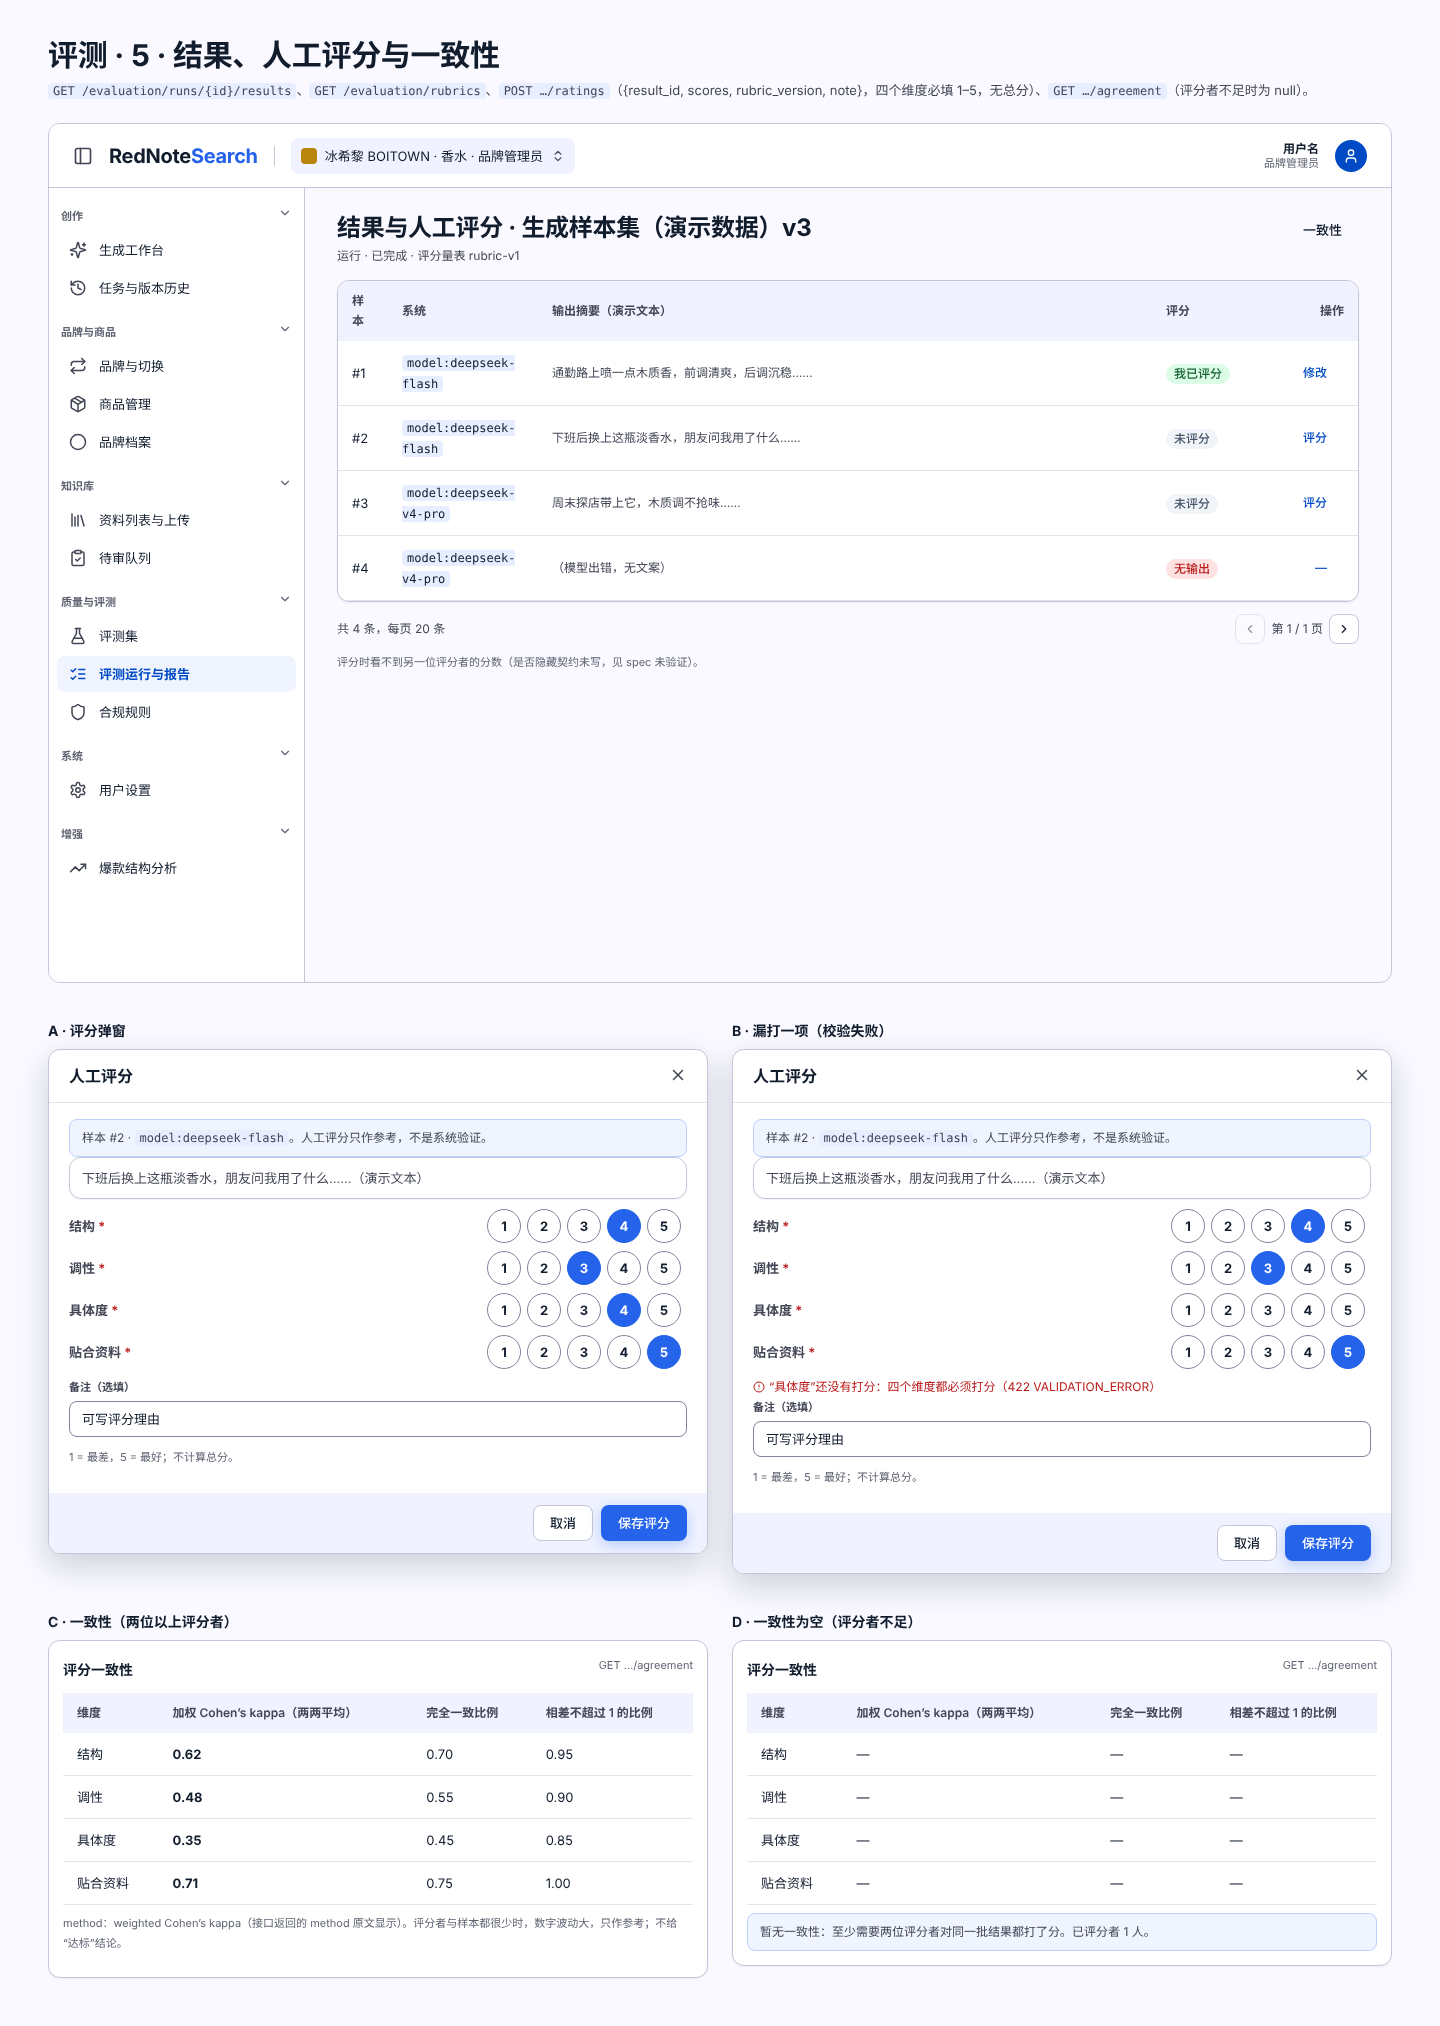
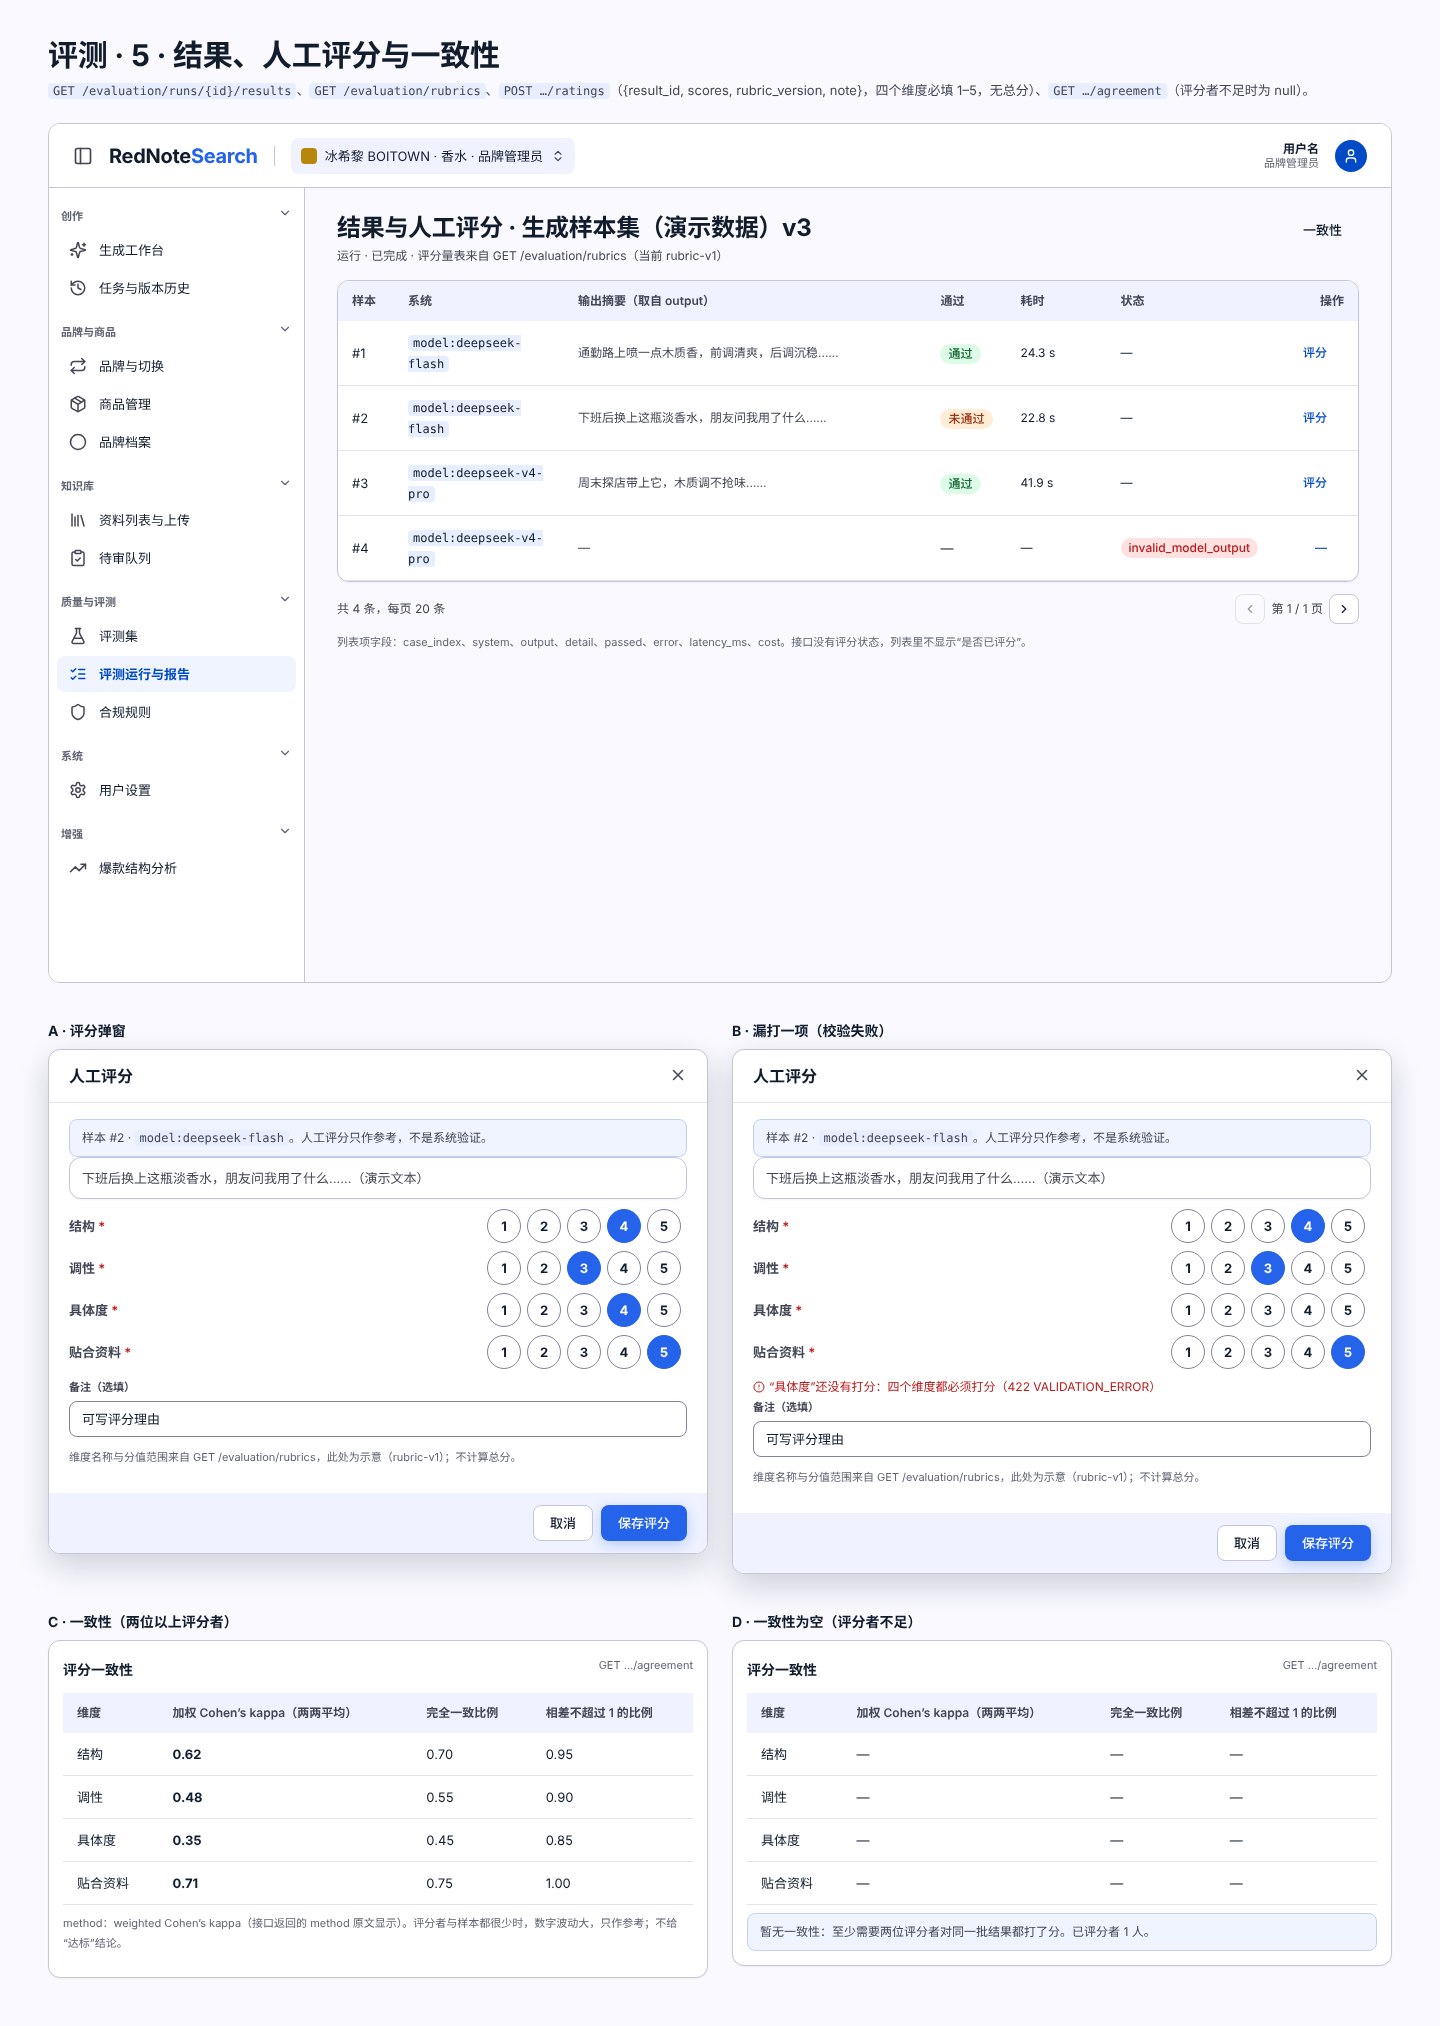
design: 评测与爆款结构分析 按审核意见改详情取数、评分量表、结果列表字段与不跳转
Claude-Session: https://claude.ai/code/session_01JAXYkTcwLHpWH93jTJhAHo

diff --git a/docs/design/evaluation/spec.md b/docs/design/evaluation/spec.md
@@ -29,16 +29,16 @@
 ## 区域与字段
 **评测集列表**（`GET /evaluation/datasets?kind=`）：名称、类型（合规检测 `compliance`、事实核查 `factcheck`、生成质量 `generation`、品牌串味 `brand_leak`）、范围、版本、样本数 `case_count`、创建时间；筛选只有类型。
 **新建评测集**（`POST /evaluation/datasets`，201）：名称 1–100 字；类型；范围；样本为 JSON 数组 1–200 条；各类型样本格式写在字段说明里（来自契约）。品牌串味样本比生成类多 `distractor_brand`，`expected.foreign_terms` 必填 1–50 条。校验失败 422，指出第几条、哪个字段。
-**评测集详情**：版本信息（`case_count`、`group_id`、`content_hash`、创建时间）；样本分页 `GET …/cases?page=`；版本固定，修改产生新版本（契约用 `previous_version_id`）。
+**评测集详情**：后端**没有** `GET /evaluation/datasets/{id}`。页面的版本信息（`version`、`group_id`、`content_hash`、`case_count`、`created_at`）取自列表项（`GET /evaluation/datasets`，从列表页带入，或用 `kind` 与分页重新读取后按 id 选出）；样本取自 `GET /evaluation/datasets/{id}/cases?page=`；版本固定，修改产生新版本（契约用 `previous_version_id`）。
 **新建运行**（`POST /evaluation/runs`，202，带 Idempotency-Key）：从 `GET /models` 选模型（已启用的可选）；品牌串味基线传空数组；合规检测基线 `lexicon_only`、事实核查基线 `no_verification` 由系统带上，界面只说明。
 **运行详情**（`GET /evaluation/runs/{id}`）：指标按系统（`model:<id>` 或基线）分组；每项显示 name、value、n 和接口返回的 definition；另有 failures、error。指标没有综合分。价格没配置时 `avg_cost` 为 null，显示“—”，不显示 0。
 - 合规检测：`precision`、`recall`、`f1`、`exact_match_rate`；事实核查：`accuracy`、`unsupported_accepted_rate`、`supported_recall`；生成质量：`constraint_pass_rate`、`block_hint_rate`、`failure_rate`、`avg_latency_ms`、`avg_cost`、`avg_tokens`。图只画了生成质量与品牌串味的运行详情，另两类用同一张指标表，没有单独画。
 **品牌串味**（F14）：只显示 `leak_rate`、`retrieval_leak_count`、`constraint_pass_rate`、`failure_rate`；页内固定说明“衡量的是被诱导时是否把别家品牌词写进文案”；不画综合分，不写“安全”之类结论；`retrieval_leak_count` 单独成行并说明它是检索问题，不等于模型照抄诱导品牌。样本结果显示 `foreign_terms_matched`、`retrieval_leak_count / retrieval_checked`、`constraints_passed`、`leaked`。单条错误取值：`model_unavailable`、`invalid_model_output`、`retrieval_brand_mismatch`、`retrieval_brand_unknown`。
-**结果与评分**：`GET …/results`；评分 `POST …/ratings`（`result_id`、`scores`、`rubric_version`、`note`），量表 `rubric-v1` 四个维度（结构、调性、具体度、贴合资料）各 1–5，四项必填，不算总分。**一致性** `GET …/agreement`：每个维度显示两两平均的加权 Cohen’s kappa、完全一致比例、相差不超过 1 的比例和 `method`；评分者或样本不足时接口返回 null，界面显示“暂无一致性”，不画 0。人工评分页面写明“只作参考，不是系统验证”。
+**结果与评分**：`GET …/results`；结果列表项字段：`case_index`、`system`、`output`、`detail`、`passed`、`error`、`latency_ms`、`cost`；“输出摘要”从 `output` 截取，“无输出”靠 `error` 判断（显示 `error` 的取值）。评分 `POST …/ratings`（`result_id`、`scores`、`rubric_version`、`note`），**维度和量表一律取自 `GET /evaluation/rubrics`，不写死**；图里的“结构、调性、具体度、贴合资料”和 1–5 只是 `rubric-v1` 的示意，四项必填，不算总分。“是否已评分”没有接口可读，**这个标记不画**；评分保存成功后只提示“已保存”。**一致性** `GET …/agreement`：每个维度显示两两平均的加权 Cohen’s kappa、完全一致比例、相差不超过 1 的比例和 `method`；评分者或样本不足时接口返回 null，界面显示“暂无一致性”，不画 0。人工评分页面写明“只作参考，不是系统验证”。
 
 ## 交互
 - 运行是异步的：排队中、运行中时界面定期重新读取，完成后显示指标；运行中不显示 0 或空表。
-- 新建运行成功后进入该运行详情；评分保存后该行变为“我已评分”。
+- 新建运行成功后进入该运行详情；评分保存成功后弹出“已保存”提示，列表不显示评分状态。
 - 只有 401 才退出登录；403、404 沿用公共组件。
 
 ## 用到的组件
@@ -54,7 +54,7 @@
 - 契约没有“取消运行”接口，图里没有取消按钮；失败运行是否可重新运行也没写，图只用“新建运行”。
 - 单条样本错误（如 `retrieval_brand_mismatch`）如何计入各指标的分母，契约没写，图不作说明。
 - 评测集的版本字段：详情里的“基于此版本新建”入口我没有画，`previous_version_id` 在界面上怎么给用户用，请 A 确认。
-- 结果列表的字段（输出摘要、“我已评分”、无输出）契约只写了详情字段，列表字段按我的假设画；评分者之间是否互相可见，契约没写。
+- 评分弹窗调用 `POST …/ratings` 需要 `result_id`，而结果列表项字段里没有写 `id`：图按“列表项带 `id`”画，请 A 确认。评分者之间是否互相可见，契约没写。
 - 样本表里“场景、商品、诱导品牌”列取自样本的 `input`，列表接口是否原样返回，需要确认。
 - 评测集列表的创建人、搜索、`page_size` 筛选没画，契约只有 `kind`。
 - 所有错误提示文案（除错误码外）是我写的；1024 宽没有画；没有调用任何接口。

diff --git a/docs/design/viral-analysis/spec.md b/docs/design/viral-analysis/spec.md
@@ -30,7 +30,7 @@
 **样本详情**（`GET /viral-samples/{id}`）：全文、备注、来源链接。**来源链接只作纯文字显示，不做成可点击链接。** 已分析的结构列表来自 `GET …/patterns`。
 **分析**（`POST /viral-samples/{id}/analyze`，体 `{model_id}`，同步，成功 201）：通常 20–90 秒，前端超时设置 ≥120 秒，所以必须有等待状态：显示已等待秒数、按钮不可点、不提供取消。网络层超时后，界面**先提示去读取结构列表核对**，没有新结果再重试，避免重复分析。
 **结构详情**（`GET /viral-patterns/{id}`）：`title_pattern`、`hook_type`、`tone`、`emoji_usage`、`hashtag_usage`、`paragraph_structure`（1–20 段，按有序列表显示）、`abstract_template`（≤5000，**按纯文本段落显示，不渲染占位符、不当可填充模板**）、`model_id`、`prompt_version`、`checker_version`。
-**转为场景模板**（`POST /viral-patterns/{id}/to-template`，体 `{name 1–100, scene}`，仅品牌管理员）：场景 `seeding`、`review`、`tutorial`、`launch`、`promotion`、`story`；成功返回 `structure` 与 `template_version`；编辑者调用返回 403。
+**转为场景模板**（`POST /viral-patterns/{id}/to-template`，体 `{name 1–100, scene}`，仅品牌管理员）：场景 `seeding`、`review`、`tutorial`、`launch`、`promotion`、`story`；成功返回 `structure` 与 `template_version`；编辑者调用返回 403。**成功后留在结构详情页，不跳转**：页内提示显示新场景模板的名称和 `template_version`（场景模板管理页目前不存在）。
 
 ## 交互
 - 分析成功后跳到新结构的详情，或刷新结构列表。
@@ -47,7 +47,7 @@
 ## 未验证
 - 三个 `reason` 的中文含义（格式不符、照搬原文、模板格式不合格）是我按字面理解写的，请 A 确认；“可重试一次”只是设计建议，契约没写重试规则。
 - 样本列表是否返回“已有结构数”“标题”：契约没写，图没画；样本没有标题字段，所以详情页头直接写“样本详情”。
-- 转为场景模板成功后界面显示“接口返回了 structure 与 template_version”，是否跳转到场景模板页、场景模板页是否存在，契约和技术文档都没有，图没有画跳转。
+- 转为场景模板成功后的提示文案（名称加 `template_version`）是我写的。
 - “场景类型”的中文名（种草、测评、教程、上新、促销、故事）是我起的，契约只有英文枚举。
 - 等待中的秒数计时与“最长等待”文案是设计假设；没有画进度条，因为同步请求没有进度。
 - 所有错误提示文案（除错误码与 reason 名称外）是我写的；1024 宽没有画；没有调用任何接口。
